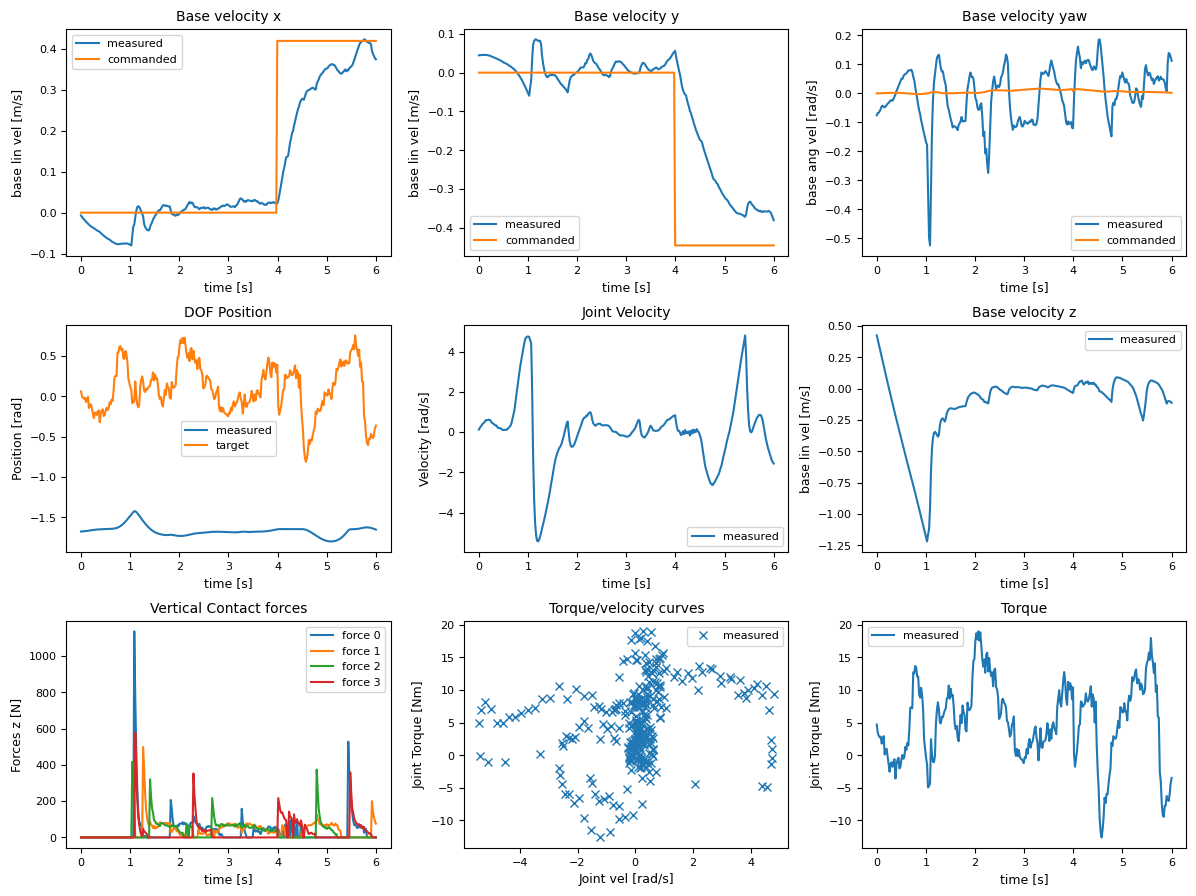
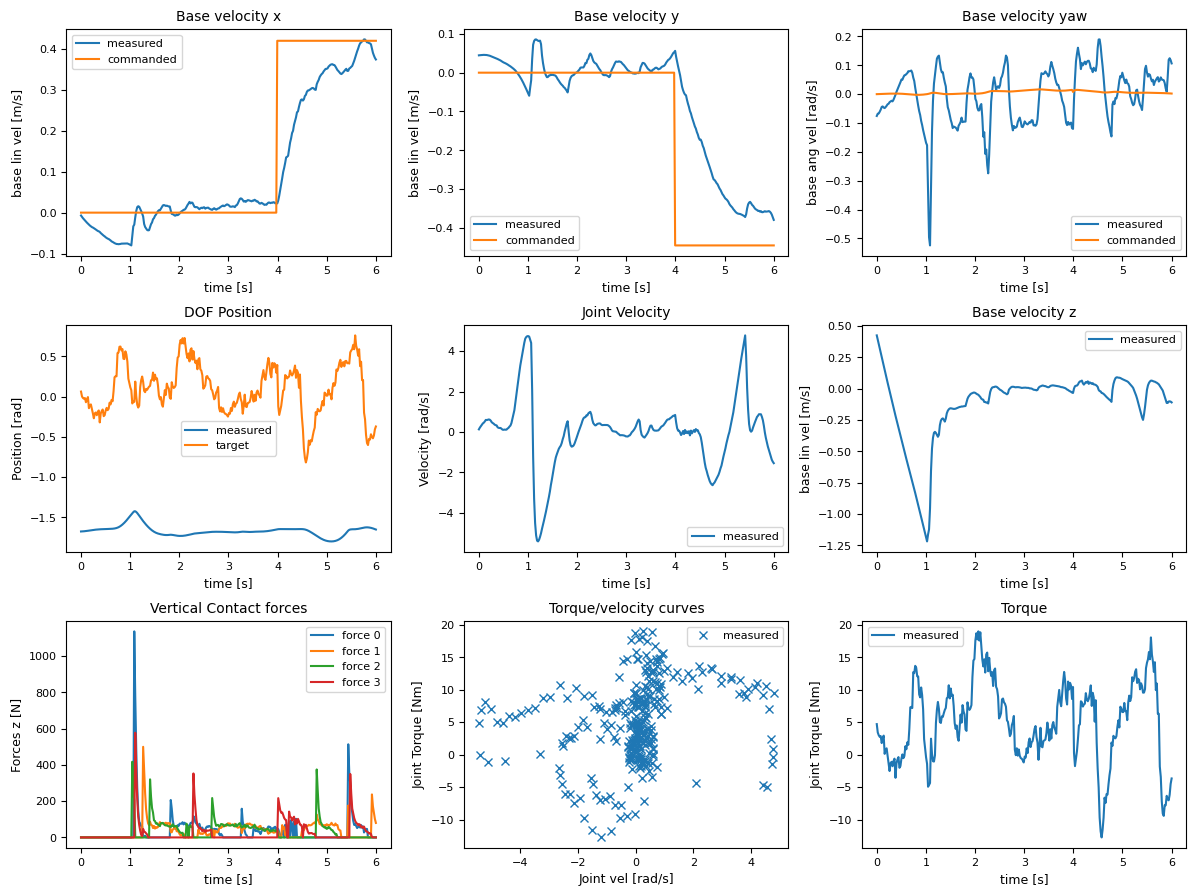
improved performance

diff --git a/legged_gym/scripts/water.py b/legged_gym/scripts/water.py
@@ -111,39 +111,48 @@ class LiquidOpts():
 
 class Creator():
   def __init__(self):
+    if not torch.cuda.is_available():
+      self.device = torch.device('cpu')
+    else:
+      assert "cuda" in ["cpu", "cuda"]
+      self.device = torch.device("cuda")
     gs.init(backend=gs.gpu)
     self.particle_size = 0.01
     self.scene = gs.Scene(
-      sim_options=gs.options.SimOptions(
-        dt=0.0008, 
-        substeps=50
-      ),
-      sph_options=gs.options.SPHOptions(
-      #  lower_bound = (-1,-1,-1),
-      #  upper_bound = (1,1,1),
-       particle_size = self.particle_size,
-      ),
-      vis_options = gs.options.VisOptions(
-        visualize_sph_boundary = True,
-      ),
-      rigid_options=gs.options.RigidOptions(
-          constraint_solver=gs.constraint_solver.Newton,
-          enable_collision=True,
-          enable_joint_limit=True,
-          enable_self_collision=False,
-          batch_dofs_info=True,   # batch dof info for all envs
-          batch_joints_info=True,
-          batch_links_info=True,
-          #use_gjk_collision=True
-        ),
-      show_viewer = True,
-    )
+            sim_options=gs.options.SimOptions(
+                dt=0.0008,
+                substeps=1
+            ),
+            viewer_options=gs.options.ViewerOptions(
+                max_FPS=int(1 / 0.0008 * 4),
+                #camera_pos=np.array(self.cfg.viewer.pos),
+                #camera_lookat=np.array(self.cfg.viewer.lookat),
+                camera_fov=40,
+            ),
+            vis_options=gs.options.VisOptions(rendered_envs_idx=[0, 1,2,3,4]),
+            rigid_options=gs.options.RigidOptions(
+                #dt=self.sim_dt,
+                constraint_solver=gs.constraint_solver.Newton,
+                enable_collision=True,
+                enable_joint_limit=True,
+                enable_self_collision=False,
+                batch_dofs_info=True,   # batch dof info for all envs
+                batch_joints_info=True,
+                batch_links_info=True,
+            ),
+            sph_options=gs.options.SPHOptions(
+                #  lower_bound = (-1,-1,-1),
+                #  upper_bound = (1,1,1),
+                particle_size = 0.01,
+            ),
+            show_viewer=True,
+        )
 
     self.cam = self.scene.add_camera(
       res    = (1280, 960),
       pos    = (3.5, 0.0, 2.5),
       lookat = (0, 0, 0.5),
-      fov    = 30,
+      fov    = 40,
       GUI    = False
   )
 
@@ -296,12 +305,12 @@ class Creator():
     #self.franka.set_dofs_position(self.franka_init_dof_pos)
     #self.liquid.set_particles_pos(self.liquid_init_pos)
 
-    rigid = self.scene.sim.rigid_solver
-    base = self.franka.get_link("base")
+    #rigid = self.scene.sim.rigid_solver
+    #base = self.franka.get_link("base")
     
-    cube_link = self.bucket.get_link("cube_2_stl_baselink")
+    #cube_link = self.bucket.get_link("cube_2_stl_baselink")
     #cube_link = self.bucket.get_link("hollow_box_better_stl_baselink")
-    lid_link = self.lid.get_link("box_baselink")
+    #lid_link = self.lid.get_link("box_baselink")
     
     #link_cube = np.array([cube_link.idx],   dtype=gs.np_int)
     #link_franka = np.array([base.idx], dtype=gs.np_int)
@@ -313,7 +322,7 @@ class Creator():
     rand_pos_offset[:, 2] = 0.0
     # New robot pose
     new_robot_pos = self.franka_init_pos + rand_pos_offset
-    new_particle_pos_offset    = new_robot_pos.clone()
+    new_particle_pos_offset    = new_robot_pos.detach().clone()
     new_particle_pos_offset[:, 2] = 0.0 # no need to modify the height
 
     # Random_yaw offsets
@@ -360,13 +369,13 @@ cass.build(n_envs=6, env_spacing=(1.0, 1.0))
 cass.cam.start_recording()
 
 import time
-for i in range(10):
-  for _ in range(15):
-    cass.scene.step()
-    cass.cam.render()
+for i in range(150):
+  cass.scene.step()
+  #for _ in range(15):  
+  cass.cam.render()
     # input()
   
-  cass.reset()
+  #cass.reset()
   
 #
 
